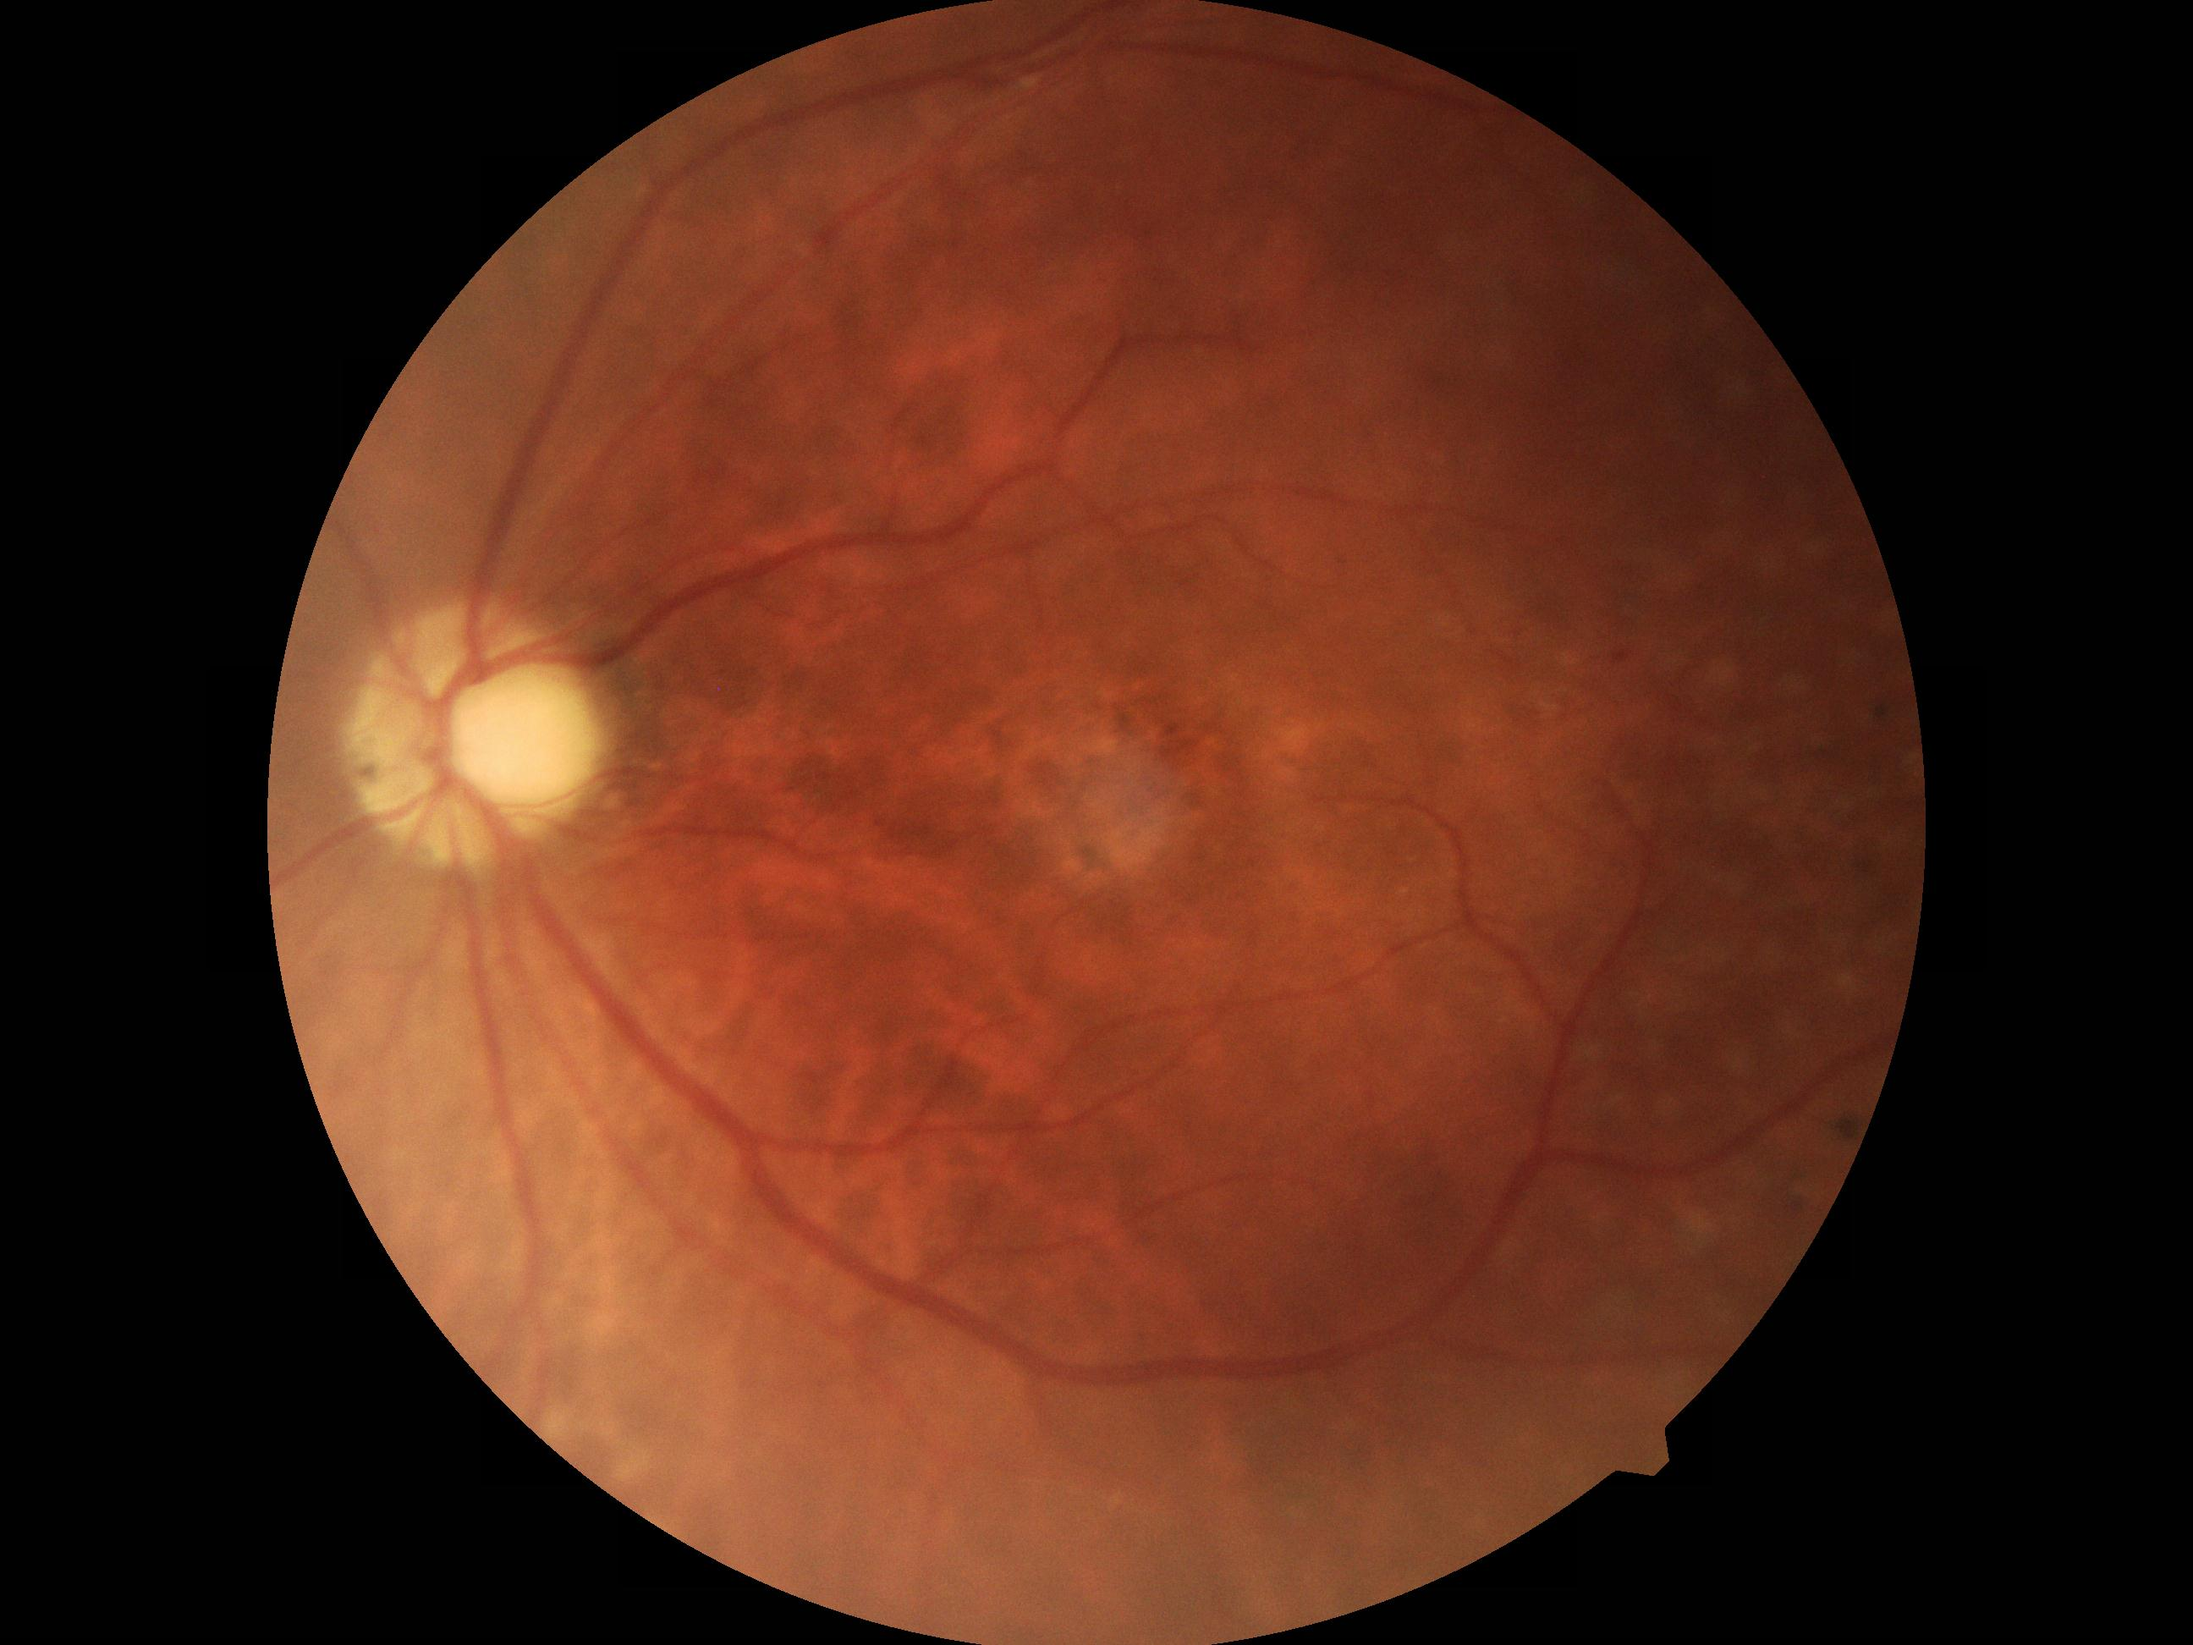
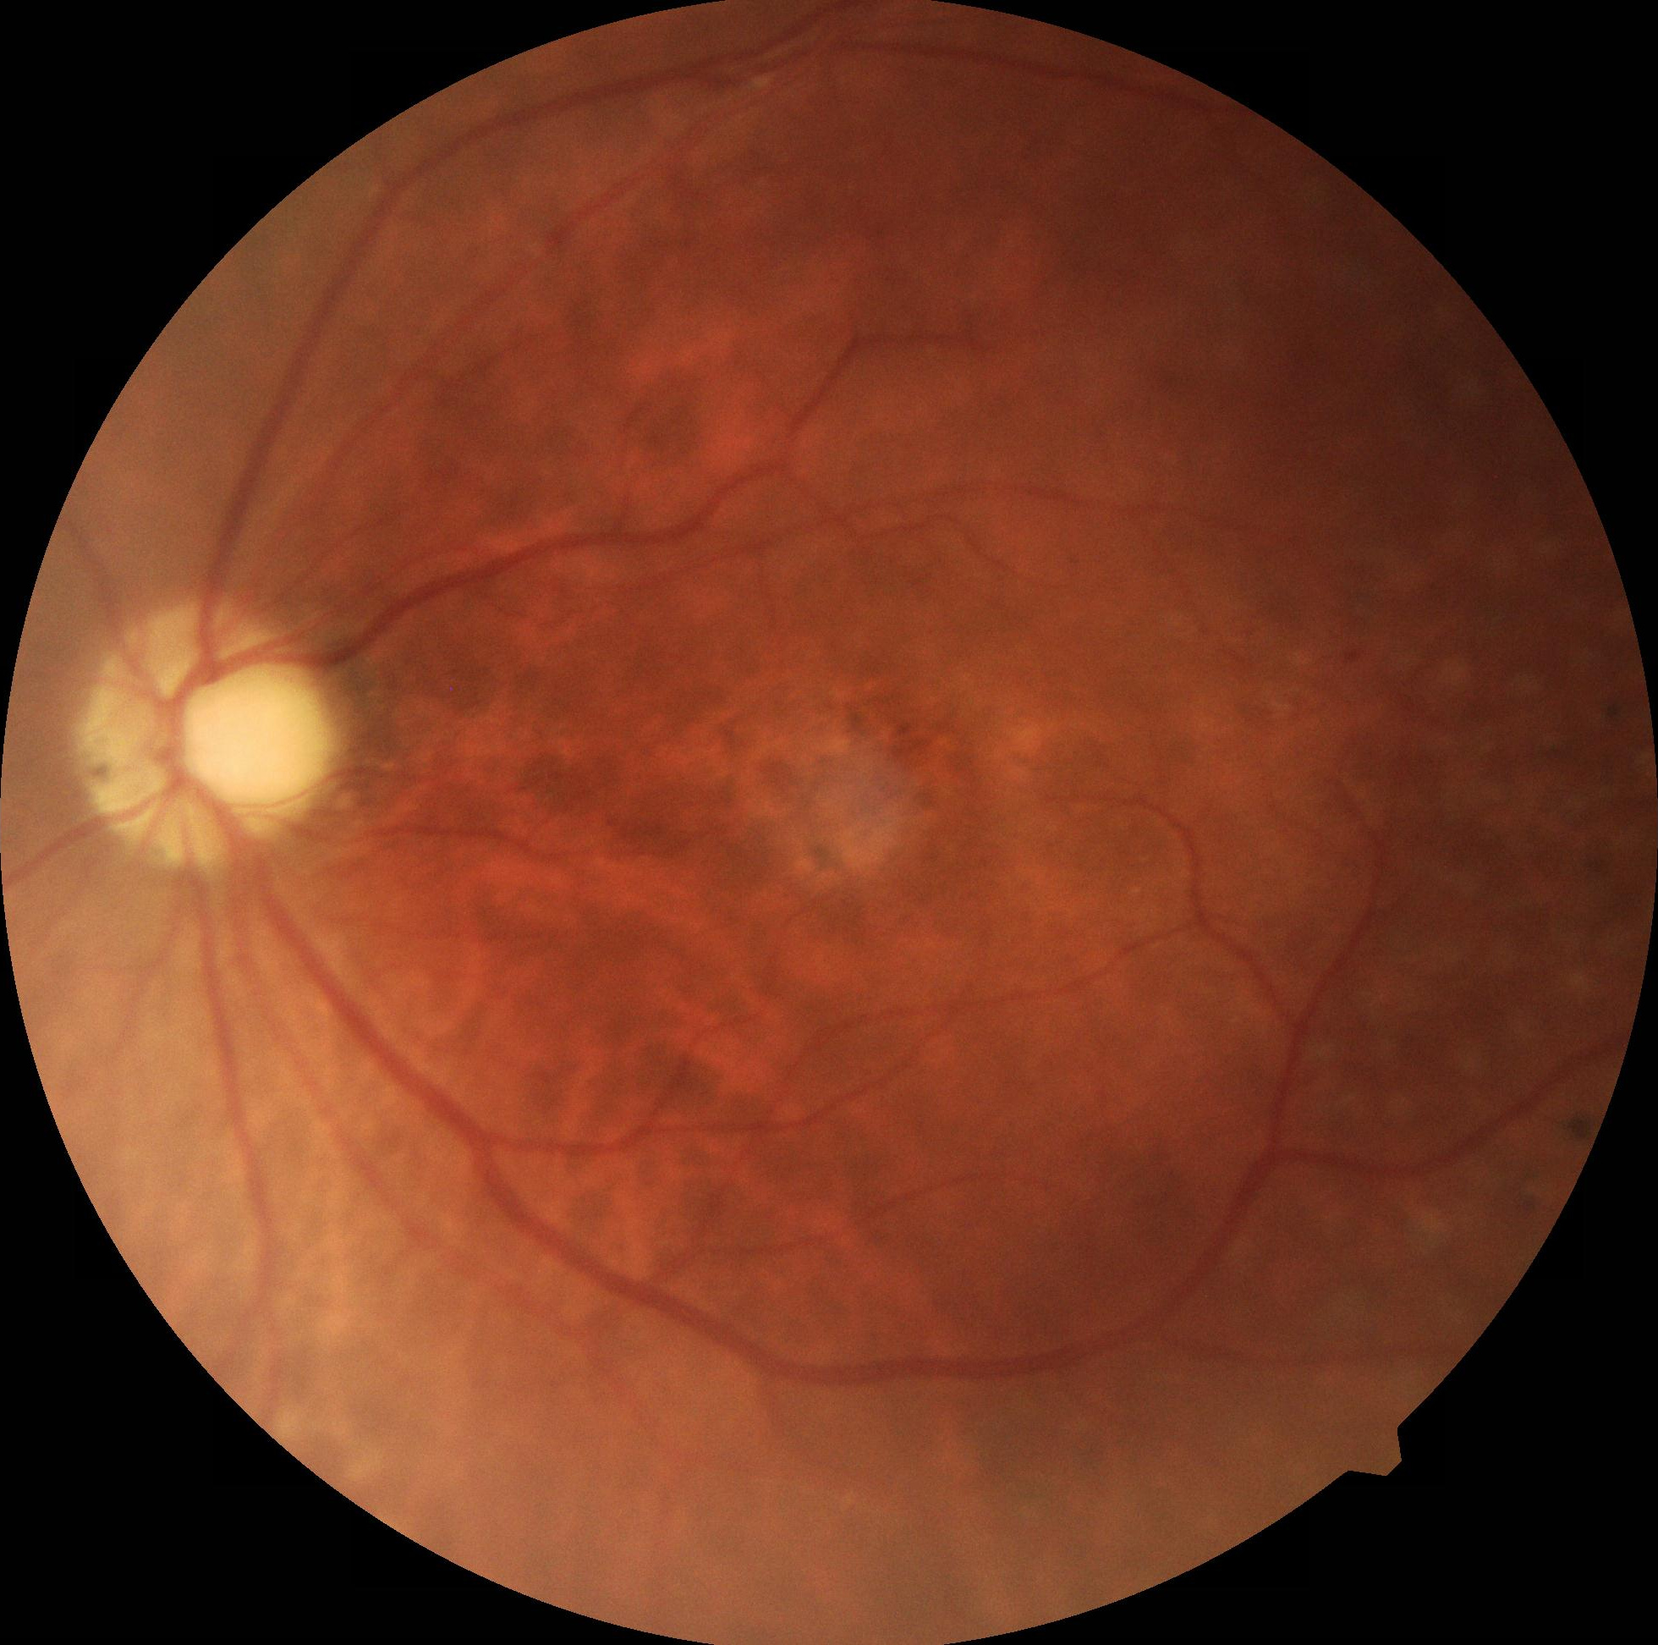
Retrained model: update citation, fix external links, tighten demo example framing

diff --git a/app.py b/app.py
@@ -448,6 +448,14 @@ HEAD = (
     "Object.defineProperty(navigator,'language',{get:function(){return 'en-US';},configurable:true});"
     "Object.defineProperty(navigator,'languages',{get:function(){return ['en-US','en'];},configurable:true});"
     "}catch(e){}"
+    # Force external links (e.g. the GitHub code link) to open in a new top-level
+    # tab. Inside HF's iframe an in-frame nav to github.com is blocked by GitHub's
+    # X-Frame-Options ("refused to connect"); window.open escapes the iframe.
+    "document.addEventListener('click',function(e){"
+    "var a=e.target&&e.target.closest?e.target.closest(\"a[href^='http']\"):null;"
+    "if(a&&!/(^https?:\\/\\/)?([^\\/]*\\.)?hf\\.space/.test(a.href)){"
+    "e.preventDefault();window.open(a.href,'_blank','noopener');}"
+    "},true);"
     "</script>"
 )
 
@@ -507,7 +515,8 @@ with gr.Blocks(title="CM-Oculomics — Anti-VEGF Intolerance Prediction") as dem
                 "<span class='v'>Grad-CAM + vascular biomarkers</span></div>"
                 "<div class='mcard-note'>Full methodology and evaluation are "
                 "reported in the accompanying paper and "
-                "<a href='https://github.com/23008613g/CM-Oculomics'>code "
+                "<a href='https://github.com/23008613g/CM-Oculomics' "
+                "target='_blank' rel='noopener noreferrer'>code "
                 "repository</a>.</div>"
                 "</div>"
             )
@@ -533,7 +542,8 @@ with gr.Blocks(title="CM-Oculomics — Anti-VEGF Intolerance Prediction") as dem
         "<div id='foot'><b>For research use only.</b><br>"
         "Model: DINOv2 ViT-L/14, fine-tuned in-house · weights under Apache-2.0. "
         "No patient data are bundled.<br>"
-        "<a href='https://github.com/23008613g/CM-Oculomics'>Code</a></div>"
+        "<a href='https://github.com/23008613g/CM-Oculomics' "
+        "target='_blank' rel='noopener noreferrer'>Code</a></div>"
     )
 
     btn.click(analyze, inputs=inp, outputs=[risk_out, cam_out, bm_out])

diff --git a/README.md b/README.md
@@ -8,8 +8,11 @@
 
 Code, an interactive demo, and reproducibility resources for the paper:
 
-> **CM-Oculomics: Extending the Oculomics Paradigm to Chinese Medicine for Interpretable Anti-VEGF Intolerance Prediction in Diabetic Retinopathy**
-> *(Authors, affiliations, journal/DOI — TBD)*
+> **Cohort dependence escapes unsupervised performance estimation in a fundus-based anti-VEGF risk model**
+> Cheng Zhang, Shuyan Zhang, Guoming Chen, Xiaoyu Xu, Guoyi Tang, Ruogu Xiong,
+> Yunqing Xun, Tung Leong Fong, Yue Chen, Qinguo Huang, Zhongxiu Zhang, Ning Wang,
+> Yinjian Zhang, Yibin Feng
+> *(manuscript submitted for publication; DOI to follow)*
 
 This repository provides the inference, explainability, and imaging-biomarker code, plus an interactive web demo, for the main results of the paper. **No patient data are included** (see *Data & Privacy* below).
 
@@ -135,16 +138,15 @@ Training on your own ethically-approved data uses `src/train.py` with a manifest
 
 ```bibtex
 @article{CM_Oculomics,
-  title   = {CM-Oculomics: Extending the Oculomics Paradigm to Chinese Medicine for Interpretable Anti-VEGF Intolerance Prediction in Diabetic Retinopathy},
-  author  = {TBD},
-  journal = {Engineering},
-  year    = {TBD},
-  doi     = {TBD}
+  title   = {Cohort dependence escapes unsupervised performance estimation in a fundus-based anti-VEGF risk model},
+  author  = {Zhang, Cheng and Zhang, Shuyan and Chen, Guoming and Xu, Xiaoyu and Tang, Guoyi and Xiong, Ruogu and Xun, Yunqing and Fong, Tung Leong and Chen, Yue and Huang, Qinguo and Zhang, Zhongxiu and Wang, Ning and Zhang, Yinjian and Feng, Yibin},
+  year    = {2026},
+  note    = {Manuscript submitted for publication}
 }
 
 @software{CM_Oculomics_zenodo,
   title     = {CM-Oculomics: code and demo for anti-VEGF intolerance prediction from color fundus photographs},
-  author    = {TBD},
+  author    = {Zhang, Cheng and Zhang, Shuyan and Chen, Guoming and Xu, Xiaoyu and Tang, Guoyi and Xiong, Ruogu and Xun, Yunqing and Fong, Tung Leong and Chen, Yue and Huang, Qinguo and Zhang, Zhongxiu and Wang, Ning and Zhang, Yinjian and Feng, Yibin},
   year      = {2026},
   publisher = {Zenodo},
   doi       = {10.5281/zenodo.20537894},
